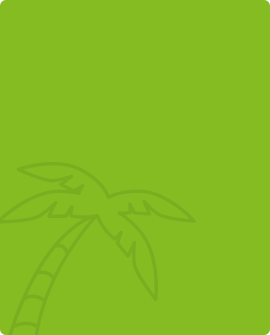
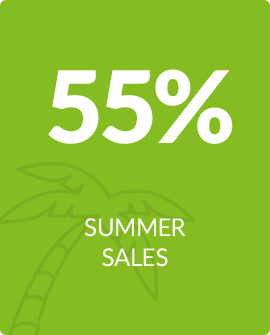
Index alignment is finished! Cards are added! To do: scripts!

Changed region(s): [[0.1778, 0.209, 0.8593, 0.4478], [0.2963, 0.6269, 0.6815, 0.806]]

diff --git a/Index.html b/Index.html
@@ -5,10 +5,13 @@
     <title>OSF Academy</title>
     <link href="Index.css" rel="stylesheet">
     <script src="https://ajax.googleapis.com/ajax/libs/jquery/3.5.1/jquery.min.js"></script>
-    <link href="https://cdn.jsdelivr.net/npm/bootstrap@5.0.2/dist/css/bootstrap.min.css" rel="stylesheet" integrity="sha384-EVSTQN3/azprG1Anm3QDgpJLIm9Nao0Yz1ztcQTwFspd3yD65VohhpuuCOmLASjC" crossorigin="anonymous">
-    <script src="https://cdn.jsdelivr.net/npm/bootstrap@5.0.2/dist/js/bootstrap.bundle.min.js" integrity="sha384-MrcW6ZMFYlzcLA8Nl+NtUVF0sA7MsXsP1UyJoMp4YLEuNSfAP+JcXn/tWtIaxVXM" crossorigin="anonymous"></script>
+    <link crossorigin="anonymous" href="https://cdn.jsdelivr.net/npm/bootstrap@5.0.2/dist/css/bootstrap.min.css"
+          integrity="sha384-EVSTQN3/azprG1Anm3QDgpJLIm9Nao0Yz1ztcQTwFspd3yD65VohhpuuCOmLASjC" rel="stylesheet">
+    <script crossorigin="anonymous"
+            integrity="sha384-MrcW6ZMFYlzcLA8Nl+NtUVF0sA7MsXsP1UyJoMp4YLEuNSfAP+JcXn/tWtIaxVXM"
+            src="https://cdn.jsdelivr.net/npm/bootstrap@5.0.2/dist/js/bootstrap.bundle.min.js"></script>
     <script>
-        $(function(){
+        $(function () {
             $("#header").load("Header.html");
             $("#footer").load("Footer.html");
         });
@@ -19,103 +22,189 @@
 <div class="MainScreen">
     <div class="container">
         <div class="row">
-            <div class="col">
-                <div id="carouselExampleControls" class="carousel slide" data-bs-ride="carousel">
+            <div class="col-9">
+                <div class="carousel slide" data-bs-ride="carousel" id="OSFSlider">
+                    <div class="carousel-indicators">
+                        <button aria-current="true" aria-label="Slide 1" class="active"
+                                data-bs-slide-to="0" data-bs-target="#carouselExampleIndicators" type="button"></button>
+                        <button aria-label="Slide 2" data-bs-slide-to="1" data-bs-target="#carouselExampleIndicators"
+                                type="button"></button>
+                        <button aria-label="Slide 3" data-bs-slide-to="2" data-bs-target="#carouselExampleIndicators"
+                                type="button"></button>
+                    </div>
                     <div class="carousel-inner">
                         <div class="carousel-item active">
-                            <img src="./Images/Slider_1.png" class="rounded mx-auto" alt="First Slider">
+                            <div class="TextOverImage BigWhiteText m-5 text-start">Control and manage any device with
+                                cloud
+                                solutions
+                            </div>
+                            <div class="TextOverImage SmalllerText m-5 text-start">Improve business performance and the
+                                user
+                                experience with the right mix of IoT technology and processes doloremque laudantium,
+                                totam rem aperiam, eaque ipsa quae ab illo inventore veritatis et quasi architecto
+                                beatae vitae dicta sunt explicabo. Nemo enim ipsam voluptatem quia voluptas sit
+                                aspernatur aut odit aut fugit, sed
+                            </div>
+                            <img alt="First Slider" class="rounded img-fluid" src="./Images/Slider_1.png">
                         </div>
                         <div class="carousel-item">
-                            <img src="./Images/Slider_2.png" class="rounded mx-auto" alt="Second Slider">
+                            <div class="TextOverImage BigWhiteText m-5 text-center">Control and manage any device with
+                                cloud
+                                solutions
+                            </div>
+                            <div class="TextOverImage SmalllerText m-5 text-center">Improve business performance and the
+                                user
+                                experience with the right mix of IoT technology and processes doloremque laudantium,
+                                totam rem aperiam, eaque ipsa quae ab illo inventore veritatis et quasi architecto
+                                beatae vitae dicta sunt explicabo. Nemo enim ipsam voluptatem quia voluptas sit
+                                aspernatur aut odit aut fugit, sed
+                            </div>
+                            <img alt="Second Slider" class="rounded img-fluid" src="./Images/Slider_2.png">
                         </div>
                         <div class="carousel-item">
-                            <img src="./Images/Slider_3.png" class="rounded mx-auto" alt="Third Slider">
+                            <div class="TextOverImage BigWhiteText m-5 text-end">Control and manage any device with
+                                cloud
+                                solutions
+                            </div>
+                            <div class="TextOverImage SmalllerText m-5 text-end">Improve business performance and the
+                                user
+                                experience with the right mix of IoT technology and processes doloremque laudantium,
+                                totam rem aperiam, eaque ipsa quae ab illo inventore veritatis et quasi architecto
+                                beatae vitae dicta sunt explicabo. Nemo enim ipsam voluptatem quia voluptas sit
+                                aspernatur aut odit aut fugit, sed
+                            </div>
+                            <img alt="Third Slider" class="rounded img-fluid" src="./Images/Slider_3.png">
                         </div>
                     </div>
-                    <button class="carousel-control-prev" type="button" data-bs-target="#carouselExampleControls" data-bs-slide="prev">
-                        <span class="carousel-control-prev-icon" aria-hidden="true"></span>
+                    <button class="carousel-control-prev" data-bs-slide="prev" data-bs-target="#OSFSlider"
+                            type="button">
+                        <span aria-hidden="true" class="carousel-control-prev-icon"></span>
                         <span class="visually-hidden">Previous</span>
                     </button>
-                    <button class="carousel-control-next" type="button" data-bs-target="#carouselExampleControls" data-bs-slide="next">
-                        <span class="carousel-control-next-icon" aria-hidden="true"></span>
+                    <button class="carousel-control-next" data-bs-slide="next" data-bs-target="#OSFSlider"
+                            type="button">
+                        <span aria-hidden="true" class="carousel-control-next-icon"></span>
                         <span class="visually-hidden">Next</span>
                     </button>
                 </div>
             </div>
-            <div class="col">
-                One of three columns
+            <div class="col-3 text-center">
+                <img alt="" src="./Images/SummerSale.png">
             </div>
         </div>
     </div>
-    <div class="Products">
-    <div class="row row-cols-1 row-cols-md-4 mx-5">
-        <div class="col mt-3">
-            <div class="card text-center h-100">
-                <img src="./Images/Popular_1.png" class="card-img-top" alt="">
-                <div class="card-body">
-                    <h5 class="card-title">Kristina Dam Oak Table With White Marble Top</h5>
-                    <p class="card-text">$ 799.55</p>
+    <div class="Products mt-5">
+        <div class="PopularItems py-5">Popular Items</div>
+        <div class="row row-cols-1 row-cols-md-4 mx-5">
+            <div class="col mt-3">
+                <div class="card text-center h-100">
+                    <img alt="" class="card-img-top" src="./Images/Popular_1.png">
+                    <div class="card-body">
+                        <h5 class="card-title">Kristina Dam Oak Table With White Marble Top</h5>
+                        <p class="card-text">$ 799.55</p>
+                    </div>
+                </div>
+            </div>
+            <div class="col mt-3">
+                <div class="card text-center h-100">
+                    <img alt="" class="card-img-top" src="./Images/Popular_2.png">
+                    <div class="card-body">
+                        <h5 class="card-title">Hay - About A Lounge Chair AAL 93</h5>
+                        <p class="card-text">$ 659.55</p>
+                    </div>
+                </div>
+            </div>
+            <div class="col mt-3">
+                <div class="card text-center h-100">
+                    <img alt="" class="card-img-top" src="./Images/Popular_3.png">
+                    <div class="card-body">
+                        <h5 class="card-title">Activate Facial Mask and Charcoal Soap</h5>
+                        <p class="card-text">$ 129.55</p>
+                    </div>
+                </div>
+            </div>
+            <div class="col mt-3">
+                <div class="card text-center h-100">
+                    <img alt="" class="card-img-top" src="./Images/Popular_4.png">
+                    <div class="card-body">
+                        <h5 class="card-title">Cocktail Table Walnut | YES</h5>
+                        <p class="card-text">$ 299.99</p>
+                    </div>
+                </div>
+            </div>
+            <div class="col mt-3">
+                <div class="card text-center h-100">
+                    <img alt="" class="card-img-top" src="./Images/Popular_5.png">
+                    <div class="card-body">
+                        <h5 class="card-title">Hay - About A Lounge Chair AAL 93</h5>
+                        <p class="card-text">$ 659.55</p>
+                    </div>
+                </div>
+            </div>
+            <div class="col mt-3">
+                <div class="card text-center h-100">
+                    <img alt="" class="card-img-top" src="./Images/Popular_6.png">
+                    <div class="card-body">
+                        <h5 class="card-title">Tory Desk Calendar</h5>
+                        <p class="card-text">$ 410.99</p>
+                    </div>
+                </div>
+            </div>
+            <div class="col mt-3">
+                <div class="card text-center h-100">
+                    <img alt="" class="card-img-top" src="./Images/Popular_7.png">
+                    <div class="card-body">
+                        <h5 class="card-title">CH445 Wing Chair on SUITE NY</h5>
+                        <p class="card-text">$ 330.55</p>
+                    </div>
                 </div>
             </div>
         </div>
-        <div class="col mt-3">
-            <div class="card text-center h-100">
-                <img src="./Images/Popular_2.png" class="card-img-top" alt="">
-                <div class="card-body">
-                    <h5 class="card-title">Hay - About A Lounge Chair AAL 93</h5>
-                    <p class="card-text">$ 659.55</p>
+        <br>
+    </div>
+    <img alt="Banner OSF Theme" class="mw-100" src="./Images/BannerOSFTheme.png">
+    <div class="Products pb-5">
+        <div class="PopularItems py-5">Featured Products</div>
+        <div class="row row-cols-1 row-cols-md-4 mx-5">
+            <div class="col mt-3">
+                <div class="card text-center h-100">
+                    <img alt="" class="card-img-top" src="./Images/Featured_1.png">
+                    <div class="card-body">
+                        <h5 class="card-title">Kristina Dam Oak Table With White Marble</h5>
+                        <p class="card-text">Awesome</p>
+                    </div>
                 </div>
             </div>
-        </div>
-        <div class="col mt-3">
-            <div class="card text-center h-100">
-                <img src="./Images/Popular_3.png" class="card-img-top" alt="">
-                <div class="card-body">
-                    <h5 class="card-title">Activate Facial Mask and Charcoal Soap</h5>
-                    <p class="card-text">$ 129.55</p>
+            <div class="col mt-3">
+                <div class="card text-center h-100">
+                    <img alt="" class="card-img-top" src="./Images/Featured_2.png">
+                    <div class="card-body">
+                        <h5 class="card-title">Kristina Dam Oak Table With White Marble</h5>
+                        <p class="card-text">Marketing</p>
+                    </div>
                 </div>
             </div>
-        </div>
-        <div class="col mt-3">
-            <div class="card text-center h-100">
-                <img src="./Images/Popular_4.png" class="card-img-top" alt="...">
-                <div class="card-body">
-                    <h5 class="card-title">Cocktail Table Walnut | YES</h5>
-                    <p class="card-text">$ 299.99</p>
+            <div class="col mt-3">
+                <div class="card text-center h-100">
+                    <img alt="" class="card-img-top" src="./Images/Featured_3.png">
+                    <div class="card-body">
+                        <h5 class="card-title">Kristina Dam Oak Table With White Marble</h5>
+                        <p class="card-text">Awesome</p>
+                    </div>
                 </div>
             </div>
-        </div>
-        <div class="col mt-3">
-            <div class="card text-center h-100">
-                <img src="./Images/Popular_5.png" class="card-img-top" alt="...">
-                <div class="card-body">
-                    <h5 class="card-title">Hay - About A Lounge Chair AAL 93</h5>
-                    <p class="card-text">$ 659.55</p>
-                </div>
-            </div>
-        </div>
-        <div class="col mt-3">
-            <div class="card text-center h-100">
-                <img src="./Images/Popular_6.png" class="card-img-top" alt="...">
-                <div class="card-body">
-                    <h5 class="card-title">Tory Desk Calendar</h5>
-                    <p class="card-text">$ 410.99</p>
-                </div>
-            </div>
-        </div>
-        <div class="col mt-3">
-            <div class="card text-center h-100">
-                <img src="./Images/Popular_7.png" class="card-img-top" alt="...">
-                <div class="card-body">
-                    <h5 class="card-title">CH445 Wing Chair on SUITE NY</h5>
-                    <p class="card-text">$ 330.55</p>
+            <div class="col mt-3">
+                <div class="card text-center h-100">
+                    <img alt="" class="card-img-top" src="./Images/Featured_4.png">
+                    <div class="card-body">
+                        <h5 class="card-title">Hezy Theme</h5>
+                        <p class="card-text">Marketing</p>
+                    </div>
                 </div>
             </div>
         </div>
     </div>
-    </div>
-    <img src="./Images/BannerOSFTheme.png" class="mw-100" alt="Banner OSF Theme">
-    <img src="./Images/Services.png" class="mw-100" alt="Services">
+    <img alt="Services" class="mw-100" src="./Images/Services.png">
 </div>
 <div id="footer"></div>
 </body>

diff --git a/Index.css b/Index.css
@@ -5,3 +5,51 @@
 .Products {
     background-color: #262A32;
 }
+
+.BigWhiteText {
+    font-size: 48px;
+    color: #FFFFFF;
+    font-weight: bold;
+    line-height: 1.2;
+    text-align: left;
+}
+
+.SmalllerText {
+    font-size: 16px;
+    color: #FFFFFF;
+    line-height: 1.2;
+    text-align: left;
+}
+
+.TextOverImage {
+    position: absolute;
+}
+
+.PopularItems {
+    font-size: 48px;
+    color: #FFFFFF;
+    line-height: 1.2;
+    text-align: center;
+}
+
+.PopularItems:after {
+    display: inline-block;
+    margin: 0 0 8px 20px;
+    height: 3px;
+    content: "";
+    text-shadow: none;
+    background-color: #3C4047;
+    width: 230px;
+}
+.PopularItems:before {
+    display: inline-block;
+    margin: 0 20px 8px 0;
+    height: 3px;
+    content: "";
+    text-shadow: none;
+    background-color: #3C4047;
+    width: 230px;
+}
+
+
+
